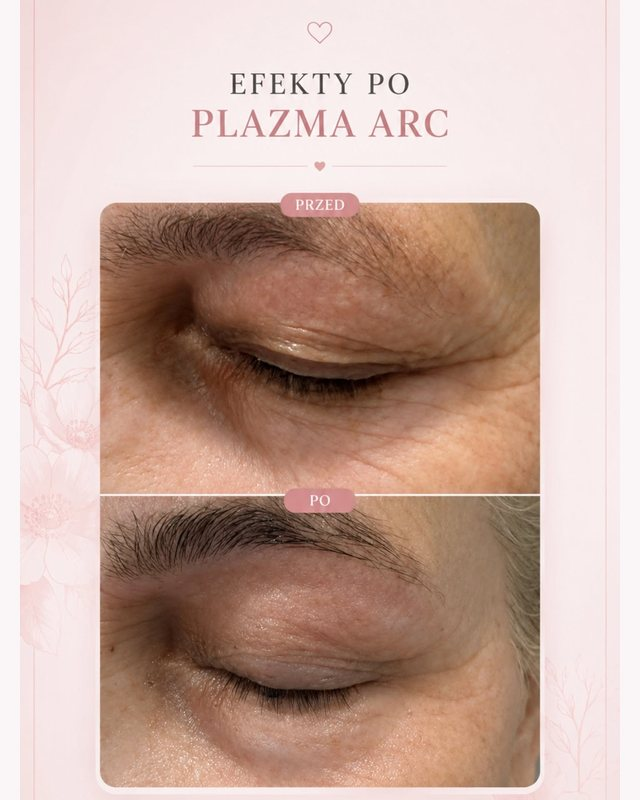
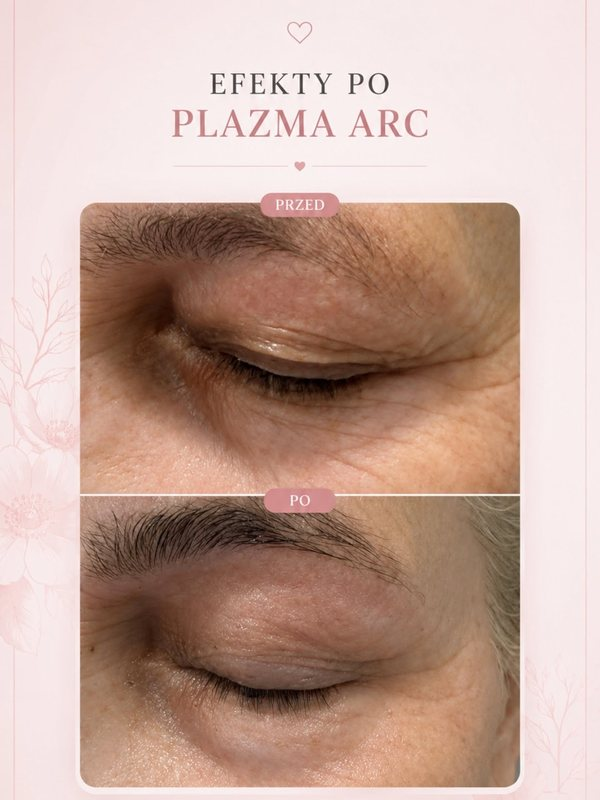
Efekty: kolaże w naturalnych proporcjach, układ kolumnowy bez pustego tła

diff --git a/index.html b/index.html
@@ -273,11 +273,11 @@
   .card .btn { margin-top: .35rem; align-self: flex-start; }
 
   /* ---------- effects ---------- */
-  .fx-grid { display: grid; gap: 1.15rem; grid-template-columns: 1fr; }
-  @media (min-width: 560px) { .fx-grid { grid-template-columns: repeat(2, 1fr); } }
-  @media (min-width: 900px) { .fx-grid { grid-template-columns: repeat(3, 1fr); } }
-  .fx-item { margin: 0; display: flex; flex-direction: column; gap: .55rem; }
-  .fx-item img { width: 100%; aspect-ratio: 4 / 5; object-fit: contain; background: var(--surface-2); display: block; box-shadow: var(--shadow); border: 1px solid var(--line); }
+  .fx-grid { columns: 1; column-gap: 1.15rem; }
+  @media (min-width: 560px) { .fx-grid { columns: 2; } }
+  @media (min-width: 900px) { .fx-grid { columns: 3; } }
+  .fx-item { margin: 0 0 1.15rem; display: flex; flex-direction: column; gap: .55rem; break-inside: avoid; }
+  .fx-item img { width: 100%; height: auto; display: block; box-shadow: var(--shadow); border: 1px solid var(--line); }
   .fx-item figcaption { font-size: .85rem; color: var(--ink-2); }
   .fx-note { margin-top: 1.15rem; font-size: .88rem; color: var(--ink-3); max-width: none; }
 
@@ -792,10 +792,10 @@
         <p class="section-lead">Zdjęcia pochodzą z&nbsp;naszego gabinetu i&nbsp;pokazują rzeczywiste klientki oraz efekty naszej pracy. Publikujemy je wyłącznie za zgodą.</p>
       </div>
       <div class="fx-grid">
-        <figure class="fx-item"><img src="assets/fx-depilacja-broda.jpg" alt="Depilacja laserowa brody LightSheer w Laser Clinic Radom, efekt po 3 zabiegach" width="640" height="800" loading="lazy"><figcaption>Depilacja laserowa brody LightSheer, efekt po 3 zabiegach</figcaption></figure>
+        <figure class="fx-item"><img src="assets/fx-depilacja-broda.jpg" alt="Depilacja laserowa brody LightSheer w Laser Clinic Radom, efekt po 3 zabiegach" width="640" height="640" loading="lazy"><figcaption>Depilacja laserowa brody LightSheer, efekt po 3 zabiegach</figcaption></figure>
         <figure class="fx-item"><img src="assets/fx-naczynka.jpg" alt="Zamykanie naczynek na policzku w Laser Clinic Radom, efekt po jednym zabiegu światłem szerokopasmowym" width="640" height="800" loading="lazy"><figcaption>Zamykanie naczynek, efekt po jednym zabiegu światłem</figcaption></figure>
-        <figure class="fx-item"><img src="assets/efekt1.jpg" alt="Lifting powiek Plazma ARC w Laser Clinic Radom, zdjęcia przed i po zabiegu" width="640" height="800" loading="lazy"><figcaption>Lifting powiek Plazma ARC, przed i&nbsp;po</figcaption></figure>
-        <figure class="fx-item"><img src="assets/fx-endermologia.jpg" alt="Endermologia LPG na brzuch w Laser Clinic Radom, efekt po serii zabiegów" width="640" height="800" loading="lazy"><figcaption>Endermologia LPG na brzuch, po serii zabiegów</figcaption></figure>
+        <figure class="fx-item"><img src="assets/efekt1.jpg" alt="Lifting powiek Plazma ARC w Laser Clinic Radom, zdjęcia przed i po zabiegu" width="600" height="800" loading="lazy"><figcaption>Lifting powiek Plazma ARC, przed i&nbsp;po</figcaption></figure>
+        <figure class="fx-item"><img src="assets/fx-endermologia.jpg" alt="Endermologia LPG na brzuch w Laser Clinic Radom, efekt po serii zabiegów" width="640" height="535" loading="lazy"><figcaption>Endermologia LPG na brzuch, po serii zabiegów</figcaption></figure>
         <figure class="fx-item"><img src="assets/fx-depilacja-broda2.jpg" alt="Depilacja laserowa podbródka LightSheer w Laser Clinic Radom, efekt po 3 zabiegach" width="640" height="800" loading="lazy"><figcaption>Depilacja laserowa podbródka, efekt po 3 zabiegach</figcaption></figure>
         <figure class="fx-item"><img src="assets/efekt3.jpg" alt="Naturalny efekt makijażu permanentnego ust u klientki Laser Clinic Radom" width="640" height="800" loading="lazy"><figcaption>Makijaż permanentny ust u&nbsp;naszej klientki</figcaption></figure>
       </div>
